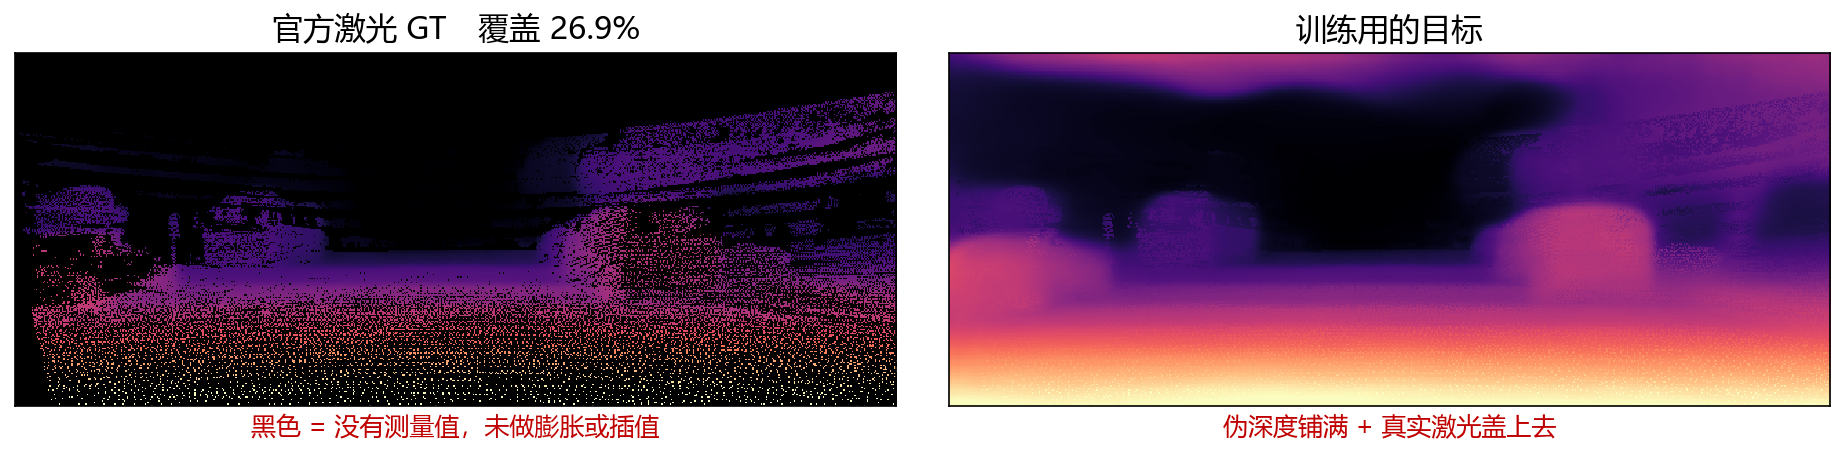
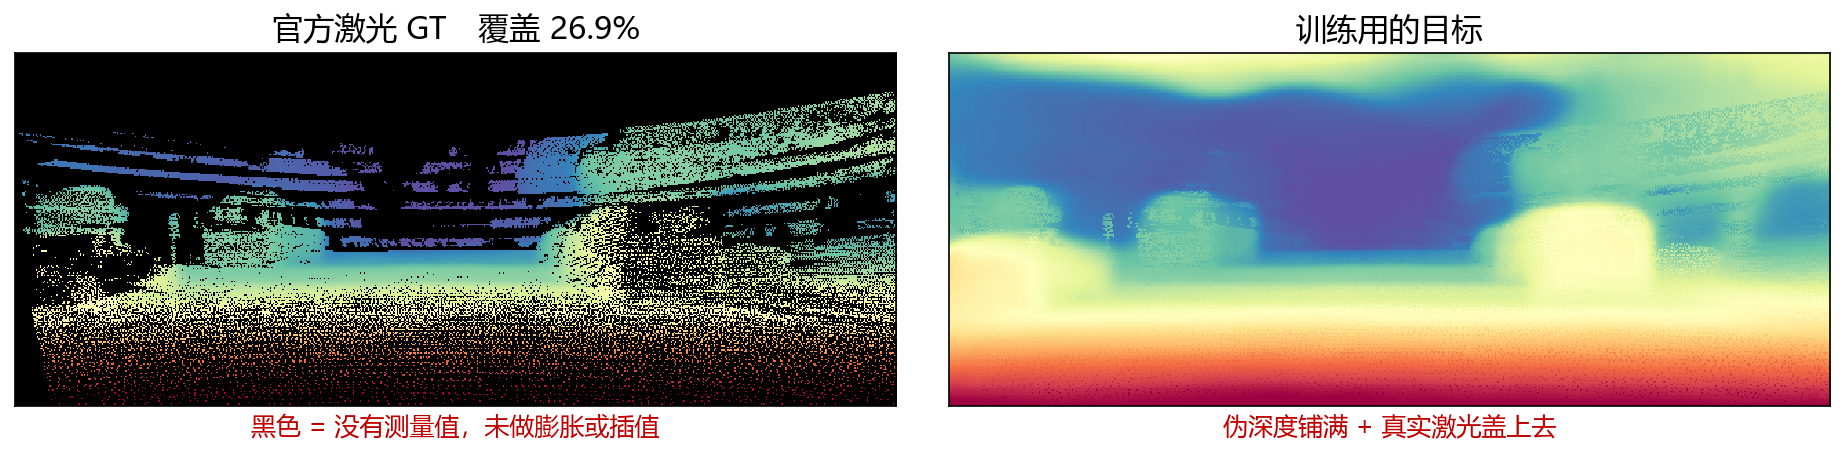
Use the colour map the repo already mandates
lotus/utils/image_utils.py::colorize_depth_map is Spectral, and AGENTS.md
requires it for saved predictions. I had switched these figures to magma on
the argument that monotonic lightness reads better. That argument is real but
it is mine, not the project's, and the detail these figures gained came
entirely from rendering inverse depth rather than metres -- the colour map
contributed none of it.

Direction is checked per panel rather than assumed, since Spectral is warm at
its low end: disparity panels run high-is-near so they take Spectral_r, the
normalised log-depth panel runs high-is-far so it takes Spectral, and
metric_chain's FuncNorm puts near at the low end so it takes Spectral too.
All panels read near-as-warm.

diff --git a/docs/figures/build_slide_variants.py b/docs/figures/build_slide_variants.py
@@ -59,7 +59,7 @@ def metric_chain_slide():
         d = 1.0 / np.clip(depth, 0.5, None)
         return np.clip((d - lo) / (hi - lo + 1e-9), 0, 1)
 
-    depth_kw = dict(cmap="magma", vmin=0, vmax=1, interpolation="nearest")
+    depth_kw = dict(cmap="Spectral_r", vmin=0, vmax=1, interpolation="nearest")
 
     fig = plt.figure(figsize=(17.0, 3.15), dpi=150)
     gs = fig.add_gridspec(1, 4, wspace=0.05, left=0.004, right=0.996,
@@ -72,7 +72,7 @@ def metric_chain_slide():
     ax2 = fig.add_subplot(gs[0, 1])
     # 与左右两格同向：越亮越近。这一格的量程是网络自己的 0–1 而不是米，
     # 那是标题在说的事；方向不能跟着变。
-    ax2.imshow(y, cmap="magma_r", vmin=0, vmax=1, interpolation="nearest")
+    ax2.imshow(y, cmap="Spectral", vmin=0, vmax=1, interpolation="nearest")
     ax2.set_title("网络直接输出", fontsize=15, pad=7)
 
     ax3 = fig.add_subplot(gs[0, 2])
@@ -111,7 +111,7 @@ def gt_density_slide():
         return np.clip((d - lo) / (hi - lo + 1e-9), 0, 1)
 
     _lo, _hi = disparity_scale(completed)
-    depth_kw = dict(cmap="magma", vmin=0, vmax=1, interpolation="nearest")
+    depth_kw = dict(cmap="Spectral_r", vmin=0, vmax=1, interpolation="nearest")
 
     # 两格：官方 GT 与训练目标。像素级放大那一格拿掉了 —— 它证明的「最密的一块
     # 有 77%」这句话，页面正文里已经直接写着了，一格图只是把同一句话再说一遍。

diff --git a/docs/figures/build_metric_chain.py b/docs/figures/build_metric_chain.py
@@ -67,7 +67,7 @@ for row, d in enumerate(dirs):
         (lambda d: -1.0 / np.clip(d, 0.5, None),
          lambda v: -1.0 / np.clip(v, None, -1e-6)),
         vmin=lo, vmax=hi)
-    depth_kw = dict(cmap="magma_r", norm=depth_norm, interpolation="nearest")
+    depth_kw = dict(cmap="Spectral", norm=depth_norm, interpolation="nearest")
 
     def metre_ticks(bar):
         """刻度选在米制的整数上，位置由 norm 决定，所以间距会不均匀。"""
@@ -91,7 +91,7 @@ for row, d in enumerate(dirs):
     # 量程是它自己的 0–1，因为这不是深度 —— 但方向必须和左右两格一致：越亮越近。
     # 曾经这一格用 viridis、邻格用别的，同一个量在相邻两张图里跑反了方向。
     ax, handle = cell(1, y, "网络直接输出　$y$",
-                      cmap="magma_r", vmin=0, vmax=1, interpolation="nearest")
+                      cmap="Spectral", vmin=0, vmax=1, interpolation="nearest")
     bar = fig.colorbar(handle, ax=ax, fraction=0.030, pad=0.010)
     bar.ax.tick_params(labelsize=8)
     if row == len(dirs) - 1:
